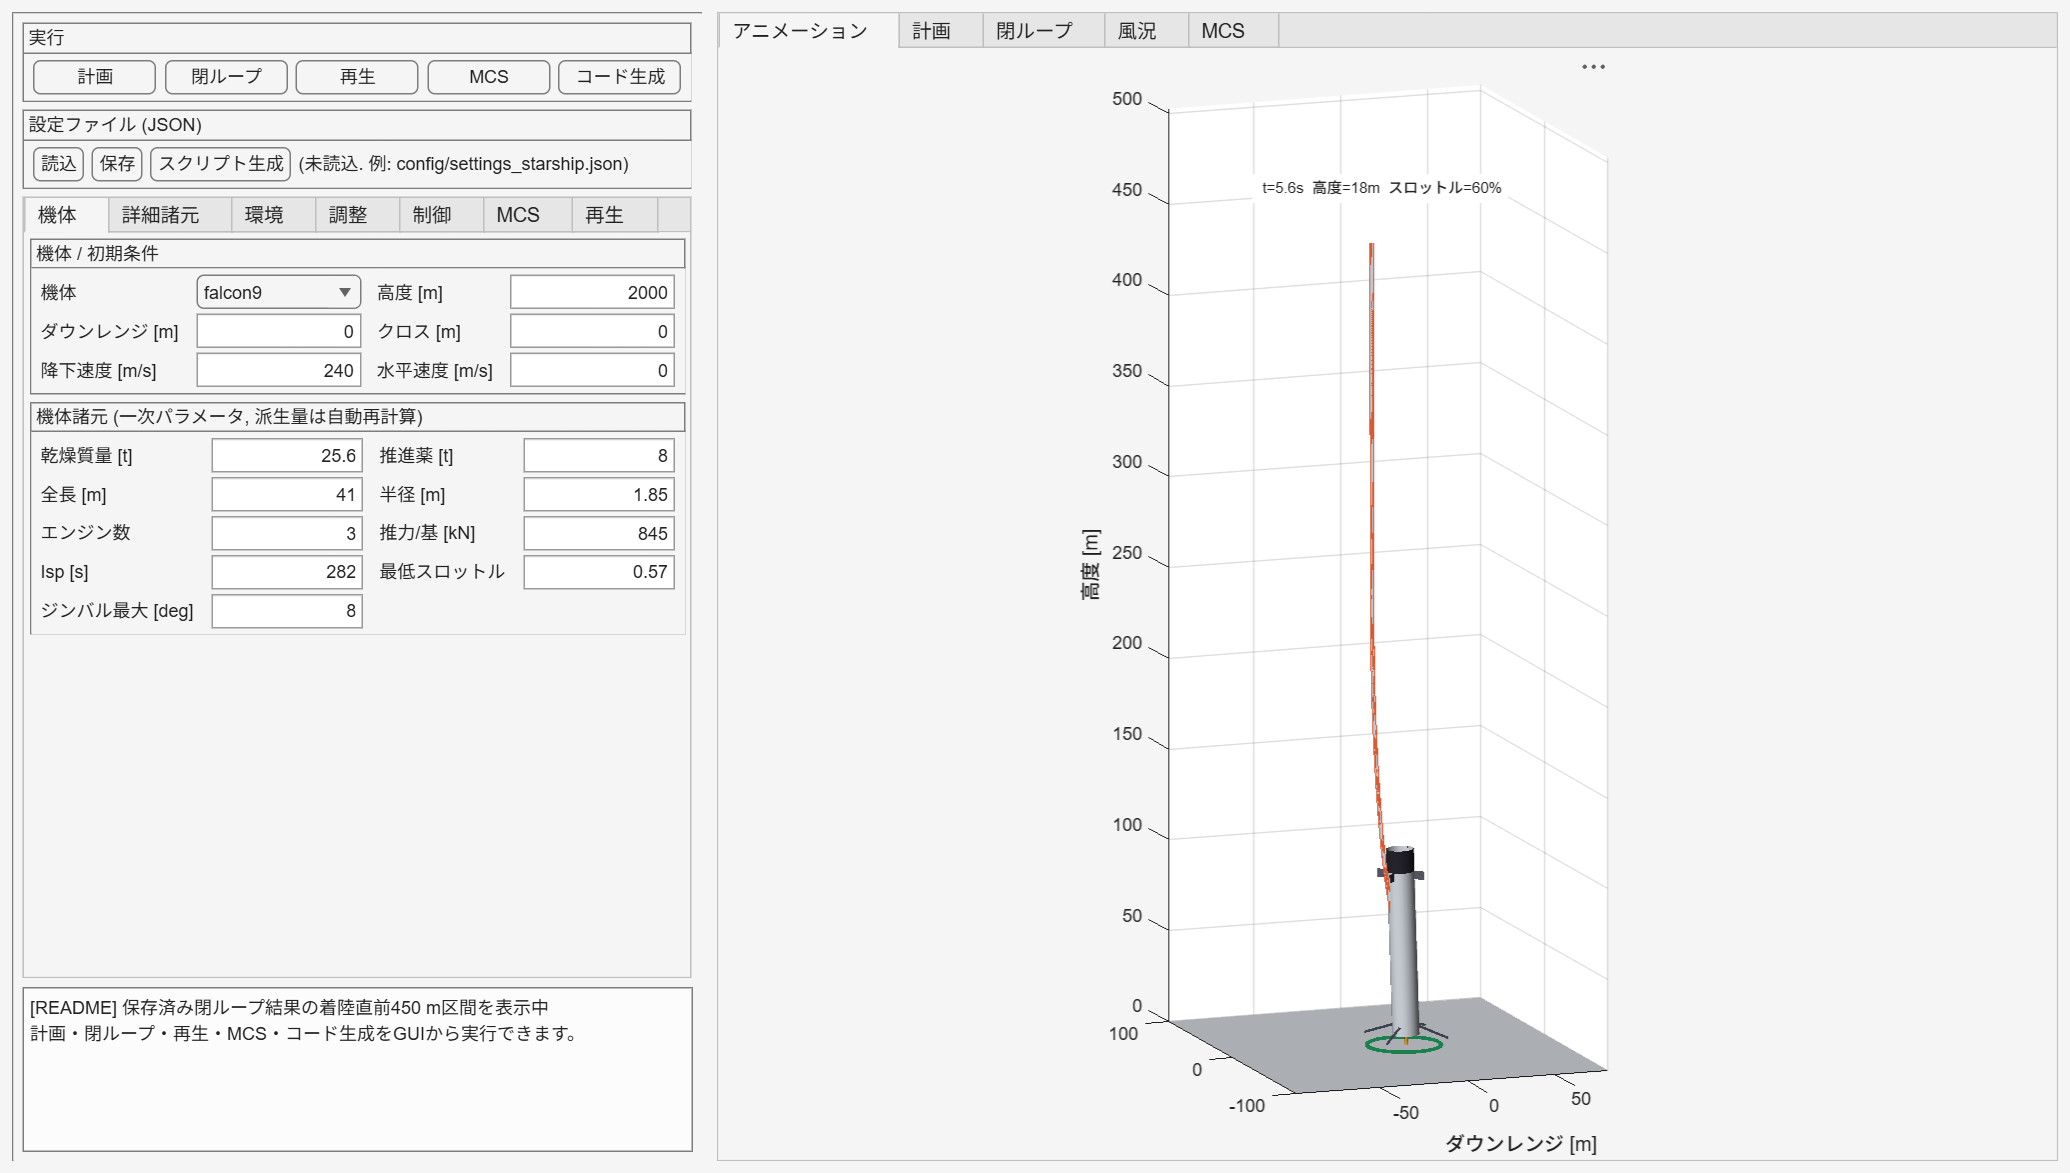
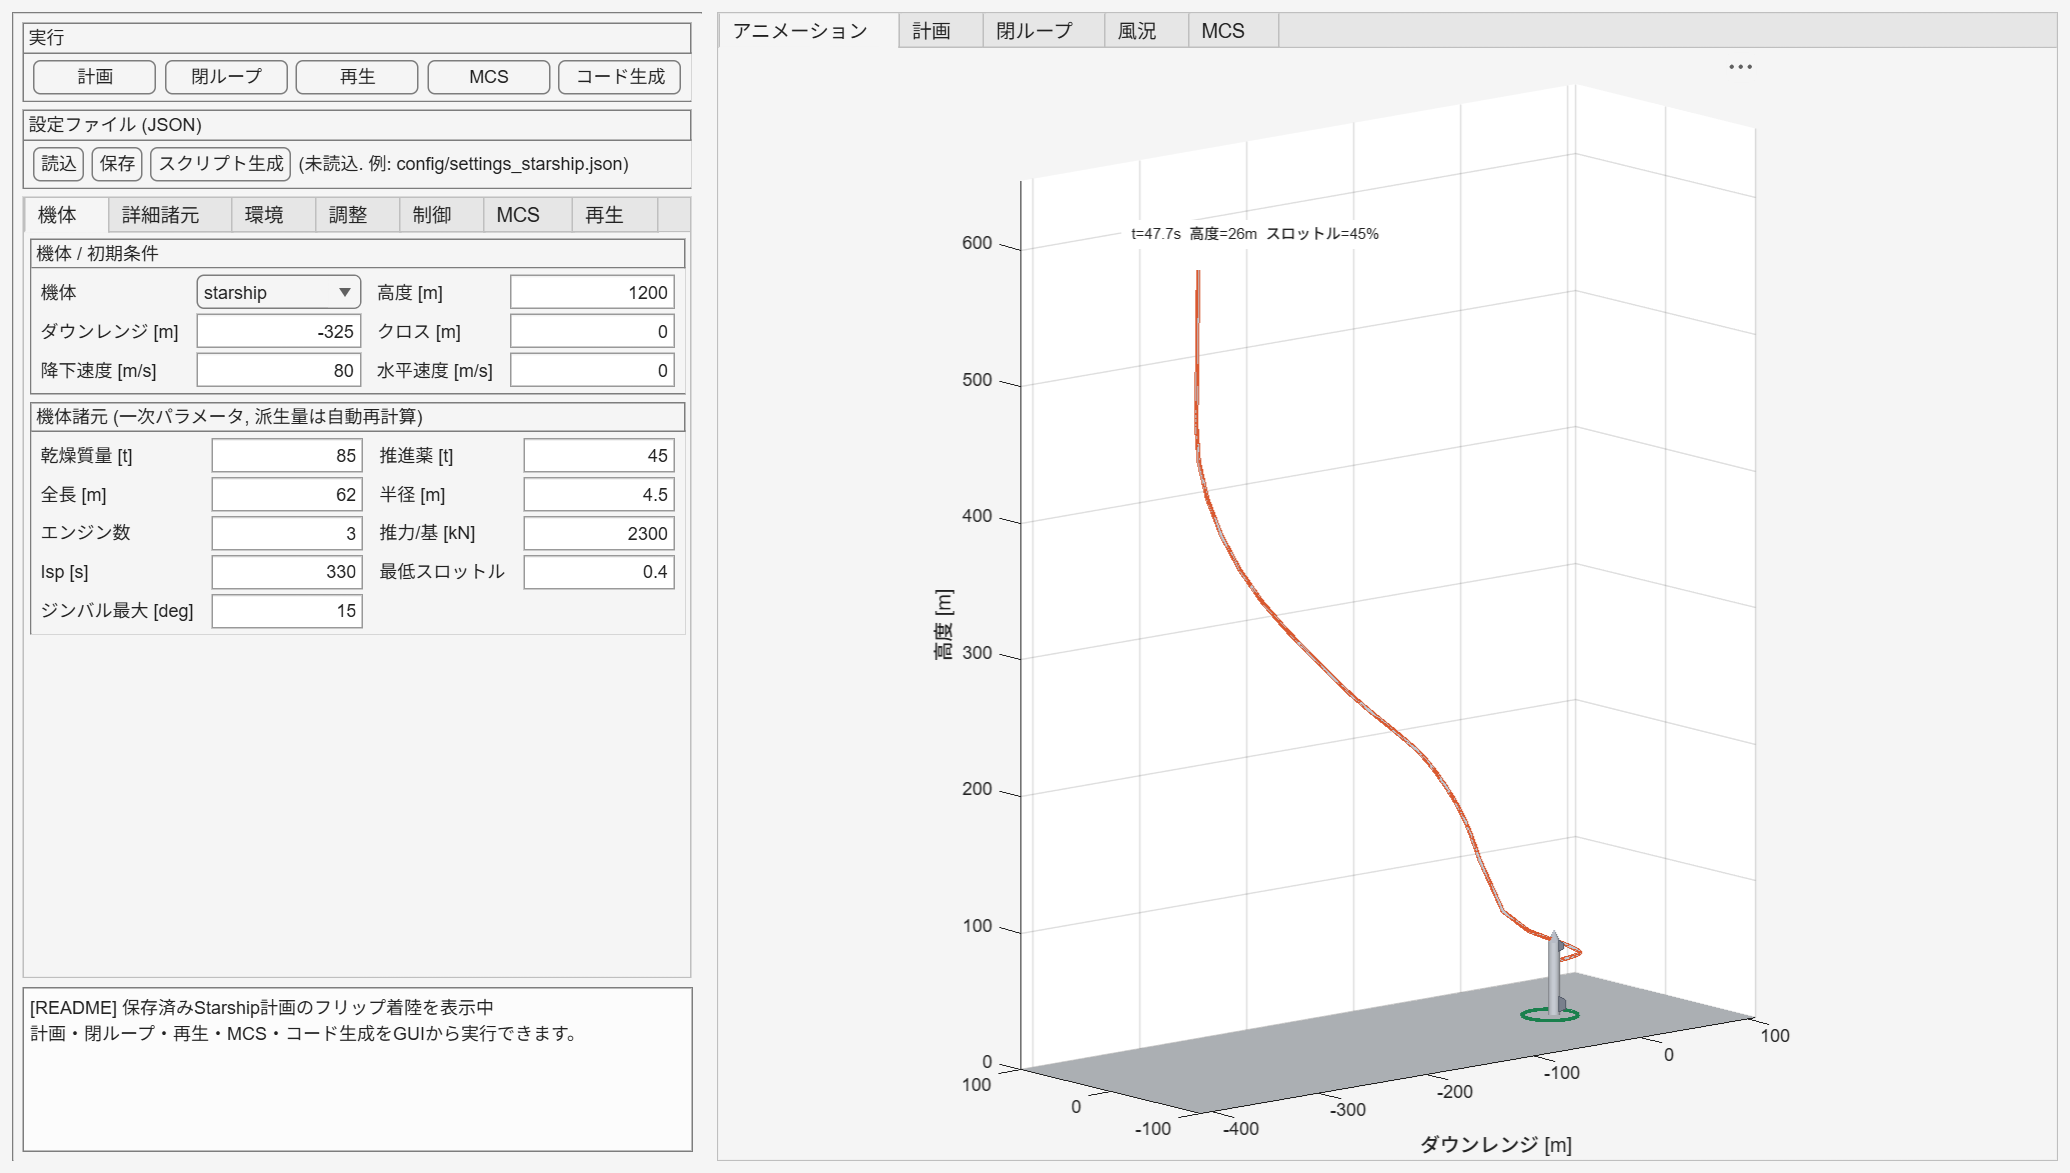
READMEの着陸プレビューとMCS結果を拡充

diff --git a/util/generateReadmeMedia.m b/util/generateReadmeMedia.m
@@ -1,8 +1,8 @@
 function generateReadmeMedia()
 %GENERATEREADMEMEDIA Generate the GUI media embedded in README.md.
 %
-%   GENERATEREADMEMEDIA uses the checked-in Falcon 9 closed-loop result,
-%   so regenerating the documentation does not rerun the optimizer.
+%   GENERATEREADMEMEDIA uses checked-in results, so regenerating the
+%   documentation does not rerun trajectory optimization or Monte Carlo.
 
 utilDir = fileparts(mfilename('fullpath'));
 projectDir = fileparts(utilDir);
@@ -12,11 +12,16 @@ if ~isfolder(mediaDir)
 end
 
 addpath(fullfile(projectDir, 'src'), utilDir);
-result = load(fullfile(projectDir, 'results', 'closedloop_replan.mat'));
-result.log = landingSegment(result.log, 450);
+falcon9 = load(fullfile(projectDir, 'results', 'closedloop_replan.mat'));
+falcon9.log = landingSegment(falcon9.log, 450);
+starship = load(fullfile(projectDir, 'results', 'landing_vert.mat'));
+starship.log = landingSegment(solutionLog(starship.sol), 600);
+mcs = load(fullfile(projectDir, 'results', 'mcs_scp.mat'));
 
-createGuiSnapshot(projectDir, mediaDir, result);
-createLandingAnimation(mediaDir, result);
+createGuiSnapshot(projectDir, mediaDir, starship);
+createFalcon9Animation(mediaDir, falcon9);
+createStarshipAnimation(mediaDir, starship);
+createMcsSnapshot(mediaDir, mcs);
 end
 
 function createGuiSnapshot(projectDir, mediaDir, result)
@@ -42,7 +47,7 @@ vehicleMenus = findall(app, 'Type', 'uidropdown');
 for k = 1:numel(vehicleMenus)
     items = string(vehicleMenus(k).Items);
     if all(ismember(["starship", "falcon9"], items))
-        vehicleMenus(k).Value = 'falcon9';
+        vehicleMenus(k).Value = 'starship';
         callback = vehicleMenus(k).ValueChangedFcn;
         if isa(callback, 'function_handle')
             callback(vehicleMenus(k), []);
@@ -63,17 +68,17 @@ if isempty(animationAxes)
 end
 
 animationOptions = struct( ...
-    'style', 'falcon9', ...
+    'style', 'starship', ...
     'speed', 1e6, ...
     'fps', 2, ...
-    'vehScale', 2.5, ...
-    'legDeployAlt', 200);
+    'vehScale', 1, ...
+    'orbit', false);
 animateVehicleAx(animationAxes(1), result.log.t, result.log.x, ...
-    result.log.u, result.plan.cfg, animationOptions);
+    result.log.u, result.cfg, animationOptions);
 logAreas = findall(app, 'Type', 'uitextarea');
 if ~isempty(logAreas)
     logAreas(1).Value = { ...
-        '[README] 保存済み閉ループ結果の着陸直前450 m区間を表示中'; ...
+        '[README] 保存済みStarship計画のフリップ着陸を表示中'; ...
         '計画・閉ループ・再生・MCS・コード生成をGUIから実行できます。'};
 end
 drawnow;
@@ -85,25 +90,11 @@ fprintf('README GUI snapshot: %s\n', snapshotFile);
 clear cleanupApp cleanupDir
 end
 
-function createLandingAnimation(mediaDir, result)
+function createFalcon9Animation(mediaDir, result)
 log = result.log;
 cfg = result.plan.cfg;
 numSamples = numel(log.t);
-theta = zeros(1, numSamples);
-for k = 1:numSamples
-    q = log.x(7:10, k);
-    q = q / norm(q);
-    q0 = q(1);
-    q1 = q(2);
-    q2 = q(3);
-    q3 = q(4);
-    rotation = [ ...
-        1-2*(q2*q2+q3*q3), 2*(q1*q2+q0*q3), 2*(q1*q3-q0*q2); ...
-        2*(q1*q2-q0*q3), 1-2*(q1*q1+q3*q3), 2*(q2*q3+q0*q1); ...
-        2*(q1*q3+q0*q2), 2*(q2*q3-q0*q1), 1-2*(q1*q1+q2*q2)];
-    nose = rotation.' * [1; 0; 0];
-    theta(k) = atan2(nose(3), nose(1));
-end
+theta = attitudeAngle(log.x);
 
 thrustScale = cfg.veh.thrustPerEng / cfg.Fs;
 throttle = min(1, max(0, vecnorm(log.u(1:3, :)) / thrustScale));
@@ -124,14 +115,87 @@ animationOptions = struct( ...
     'fps', 12, ...
     'saveGif', true, ...
     'gifFile', gifFile, ...
-    'orbit', true, ...
+    'orbit', false, ...
     'pace', false, ...
+    'vehScale', 1, ...
     'legDeployAlt', 200);
 animateFalcon9(animationData, cfg, animationOptions);
 animationFigure = findall(groot, 'Type', 'figure', ...
     'Name', 'Falcon9 ホバースラム着陸');
 delete(animationFigure);
 fprintf('README landing animation: %s\n', gifFile);
+end
+
+function createStarshipAnimation(mediaDir, result)
+animationFigure = figure( ...
+    'Color','w', ...
+    'Position',[80 60 900 760], ...
+    'Name','Starship フリップ着陸');
+cleanupFigure = onCleanup(@() deleteValid(animationFigure));
+animationAxes = axes('Parent',animationFigure);
+gifFile = fullfile(mediaDir, 'starship_landing.gif');
+animationOptions = struct( ...
+    'style', 'starship', ...
+    'speed', 8, ...
+    'fps', 12, ...
+    'saveGif', true, ...
+    'gifFile', gifFile, ...
+    'orbit', false, ...
+    'pace', false, ...
+    'vehScale', 1);
+animateVehicleAx(animationAxes, result.log.t, result.log.x, ...
+    result.log.u, result.cfg, animationOptions);
+fprintf('README Starship animation: %s\n', gifFile);
+clear cleanupFigure
+end
+
+function createMcsSnapshot(mediaDir, mcs)
+result = mcs.res;
+horiz = [result.horiz];
+touchdownSpeed = [result.vTd];
+tilt = [result.tilt];
+successRate = 100 * mean([result.ok]);
+
+mcsFigure = figure( ...
+    'Color','w', ...
+    'Position',[60 60 1450 720], ...
+    'Name','Falcon 9 MCS');
+cleanupFigure = onCleanup(@() deleteValid(mcsFigure));
+layout = tiledlayout(mcsFigure,2,2, ...
+    'TileSpacing','compact','Padding','loose');
+
+birdseyeAxes = nexttile(layout,[2 1]);
+plotMcsBirdseye(birdseyeAxes,result);
+title(birdseyeAxes,sprintf('飛行軌道（%dラン、青=成功 / 赤=NG）',mcs.N));
+
+scatterAxes = nexttile(layout);
+scatter(scatterAxes,horiz,touchdownSpeed,42,tilt,'filled');
+hold(scatterAxes,'on');
+xline(scatterAxes,mcs.prm.okCrit.horiz,'--','水平誤差上限');
+yline(scatterAxes,mcs.prm.okCrit.vz,'--','接地速度上限');
+grid(scatterAxes,'on');
+colorbar(scatterAxes);
+xlabel(scatterAxes,'水平誤差 [m]');
+ylabel(scatterAxes,'接地速度 [m/s]');
+title(scatterAxes,'着陸精度（色=傾斜 [deg]）');
+
+histogramAxes = nexttile(layout);
+histogram(histogramAxes,horiz,12);
+hold(histogramAxes,'on');
+xline(histogramAxes,mcs.prm.okCrit.horiz,'--r','成功判定上限');
+grid(histogramAxes,'on');
+xlabel(histogramAxes,'水平誤差 [m]');
+ylabel(histogramAxes,'ラン数');
+title(histogramAxes,sprintf('水平誤差（平均 %.1f m / 最大 %.1f m）', ...
+    mean(horiz),max(horiz)));
+
+title(layout,sprintf( ...
+    'Falcon 9 モンテカルロ解析 — 成功率 %.0f%%、接地速度平均 %.1f m/s、傾斜平均 %.1f°', ...
+    successRate,mean(touchdownSpeed),mean(tilt)));
+mcsFile = fullfile(mediaDir,'falcon9_mcs.png');
+exportgraphics(mcsFigure,mcsFile,'Resolution',150);
+fprintf('README MCS snapshot: %s\n',mcsFile);
+clear cleanupFigure
 end
 
 function tab = selectTab(tabs, titleText)
@@ -152,6 +216,32 @@ end
 log.t = log.t(startIndex:end) - log.t(startIndex);
 log.x = log.x(:, startIndex:end);
 log.u = log.u(:, startIndex:end);
+end
+
+function log = solutionLog(solution)
+log = struct( ...
+    't', solution.t, ...
+    'x', [solution.r; solution.v; solution.q; solution.w; solution.m], ...
+    'u', solution.uhat);
+end
+
+function theta = attitudeAngle(state)
+numSamples = size(state,2);
+theta = zeros(1,numSamples);
+for k = 1:numSamples
+    q = state(7:10,k);
+    q = q / norm(q);
+    q0 = q(1);
+    q1 = q(2);
+    q2 = q(3);
+    q3 = q(4);
+    rotation = [ ...
+        1-2*(q2*q2+q3*q3), 2*(q1*q2+q0*q3), 2*(q1*q3-q0*q2); ...
+        2*(q1*q2-q0*q3), 1-2*(q1*q1+q3*q3), 2*(q2*q3+q0*q1); ...
+        2*(q1*q3+q0*q2), 2*(q2*q3-q0*q1), 1-2*(q1*q1+q2*q2)];
+    nose = rotation.' * [1; 0; 0];
+    theta(k) = atan2(nose(3),nose(1));
+end
 end
 
 function deleteValid(object)

diff --git a/util/animateVehicleAx.m b/util/animateVehicleAx.m
@@ -4,7 +4,9 @@ function animateVehicleAx(ax, t, X, U, cfg, opt)
 %   ANIMATEVEHICLEAX(AX, T, X, U, CFG, OPT)
 %   AX  : 描画先 axes (uiaxes 可)
 %   T   : 1xN 時刻, X : 14xN 状態(物理), U : 7xN 制御(無次元)
-%   OPT : style ('starship'|'falcon9'), speed, fps, vehScale, legDeployAlt
+%   OPT : style ('starship'|'falcon9'), speed, fps, vehScale, legDeployAlt,
+%         orbit, pace, saveGif, gifFile
+%         vehScale=1 と orbit=false が既定 (実寸比・固定ビュー).
 %
 %   別ウィンドウを開かず AX に直接描画する. 尾部アンカー方式 (接地整合).
 %
@@ -13,10 +15,13 @@ if nargin < 6, opt = struct(); end
 gv = @(f,d) getf(opt,f,d);
 style = gv('style','starship');
 spd = gv('speed',4);  fps = gv('fps',20);
-isF9tmp = strcmp(style,'falcon9');
-vs  = gv('vehScale', 2.5*isF9tmp + 1.6*~isF9tmp);   % starshipは控えめ拡大
+vs  = gv('vehScale',1);
 hDep = gv('legDeployAlt',200);  tDep = 1.5;
 isF9 = strcmp(style,'falcon9');
+orbit = gv('orbit',false);
+paceOn = gv('pace',true);
+saveGif = gv('saveGif',false);
+gifFile = gv('gifFile','landing.gif');
 
 N = numel(t);
 if size(U,2) < N, U = [U, repmat(U(:,end),1,N-size(U,2))]; end
@@ -29,7 +34,7 @@ for k = 1:N
     th(k) = atan2(nose(3), nose(1));
 end
 thr = min(1, max(0, vecnorm(U(1:3,:))/(cfg.veh.thrustPerEng/cfg.Fs)));
-LbT = cfg.veh.Lb;  Lb = LbT*vs;  Rb = cfg.veh.R*vs*(1 + 0.6*isF9);
+LbT = cfg.veh.Lb;  Lb = LbT*vs;  Rb = cfg.veh.R*vs;
 kd = find(h <= hDep, 1);
 if isempty(kd), tDeploy = inf; else, tDeploy = t(kd); end
 
@@ -130,10 +135,26 @@ for k = 1:nF
     m = t <= tq;
     set(hTrail,'XData',[y(m) yq],'YData',zeros(1,sum(m)+1),'ZData',[h(m) hq]);
     set(hTxt,'String',sprintf(' t=%.1fs  高度=%.0fm  スロットル=%.0f%%', tq, hq, trq*100));
-    view(ax,[-40 + 20*tq/tf, 12 + 4*sin(pi*tq/tf)]);
+    if orbit
+        view(ax,[-40 + 20*tq/tf, 12 + 4*sin(pi*tq/tf)]);
+    end
     drawnow limitrate
-    while toc(tWall) < k/fps, pause(0.001); end      % 壁時計ペーシング
+    if paceOn && ~saveGif
+        while toc(tWall) < k/fps, pause(0.001); end  % 壁時計ペーシング
+    end
+    if saveGif
+        frame = getframe(ancestor(ax,'figure'));
+        [indexedFrame,colorMap] = rgb2ind(frame2im(frame),256);
+        if k == 1
+            imwrite(indexedFrame,colorMap,gifFile,'gif', ...
+                'LoopCount',inf,'DelayTime',1/fps);
+        else
+            imwrite(indexedFrame,colorMap,gifFile,'gif', ...
+                'WriteMode','append','DelayTime',1/fps);
+        end
+    end
 end
+if saveGif, fprintf('GIF 保存: %s\n', gifFile); end
 end
 
 function R = quat2R(q)

diff --git a/util/animateFalcon9.m b/util/animateFalcon9.m
@@ -3,7 +3,8 @@ function animateFalcon9(P, cfg, opt)
 %
 %   ANIMATEFALCON9(P, CFG, OPT)
 %   P   : animate6DoF と同じ struct (t,y,h,theta,vy,vh,throttle,gimbal,m)
-%   OPT : speed(実時間比) fps saveGif gifFile orbit pace legDeployAlt
+%   OPT : speed(実時間比) fps saveGif gifFile orbit pace legDeployAlt vehScale
+%         vehScale=1 と orbit=false が既定 (実寸比・固定ビュー).
 %
 %   機体: 細身の円柱 + インターステージ黒帯 + グリッドフィン4枚 +
 %         ランディングギア4本 (既定: 高度200 m以下で約1.5秒かけて展開)
@@ -13,13 +14,13 @@ if nargin < 3, opt = struct(); end
 gv = @(f,d) getf(opt,f,d);
 spd = gv('speed',3);  fps = gv('fps',20);
 saveG = gv('saveGif',false);  gifF = gv('gifFile','falcon9_landing.gif');
-orbit = gv('orbit',true);  paceOn = gv('pace',true);
+orbit = gv('orbit',false);  paceOn = gv('pace',true);
 hDep = gv('legDeployAlt',200);           % ギア展開開始高度 [m]
 tDep = 1.5;                              % 展開所要時間 [s]
 
 LbTrue = cfg.veh.Lb;                                   % 実寸 (接地計算に使用)
-vs = gv('vehScale',3);
-Lb = LbTrue*vs;  Rb = cfg.veh.R*vs*1.6;                % 描画用拡大
+vs = gv('vehScale',1);
+Lb = LbTrue*vs;  Rb = cfg.veh.R*vs;
 %% 描画は「尾部の実高度」を基準にアンカーする. 重心基準のまま拡大すると
 %% 尾部が地面下に沈んで見える (実寸の尾部 = CG - LbTrue/2).
 tf = P.t(end);
